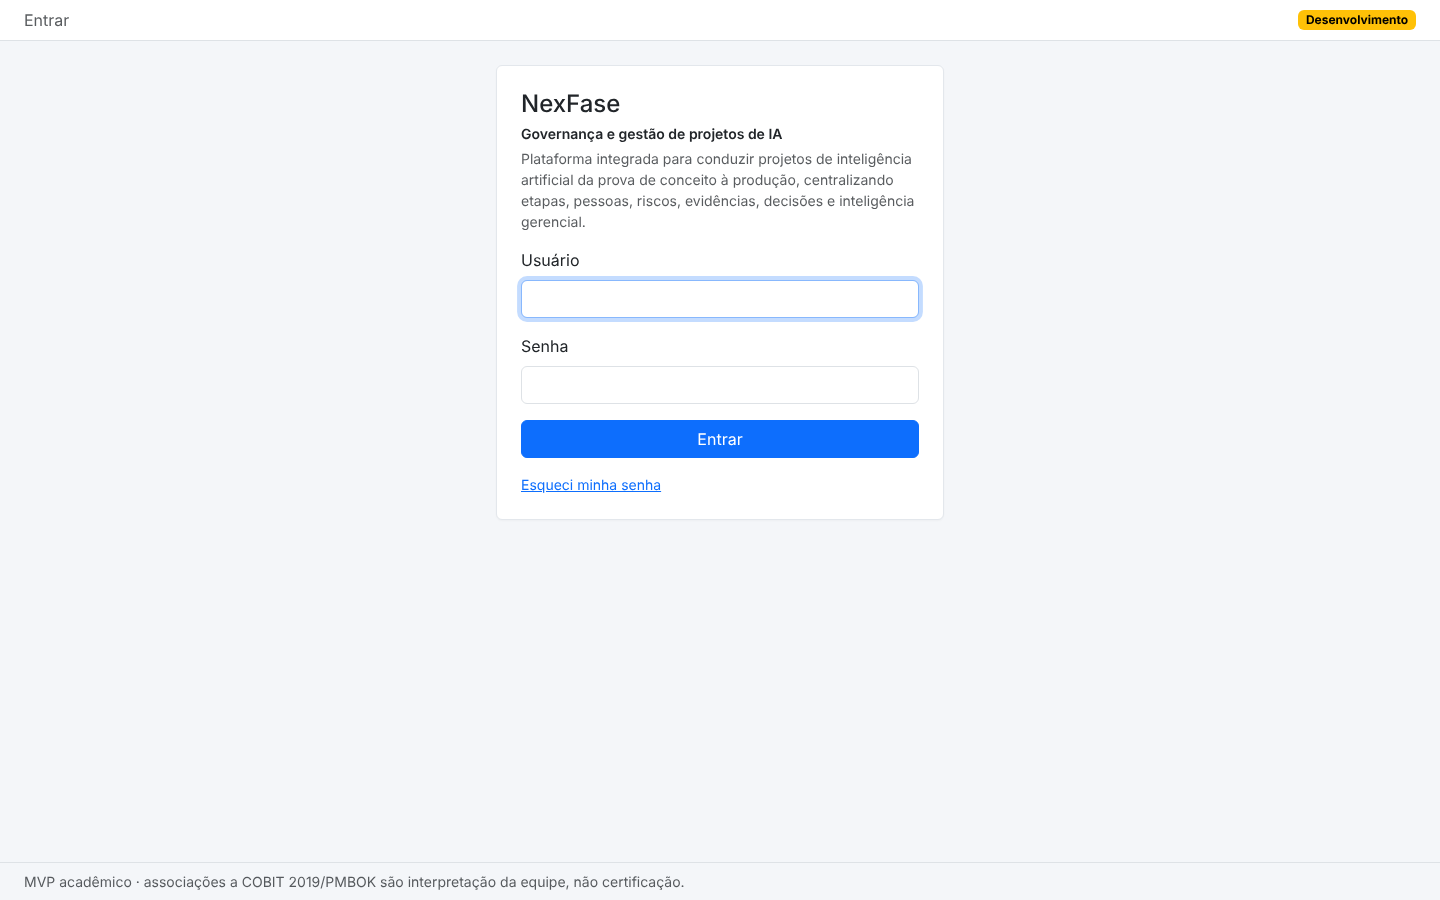
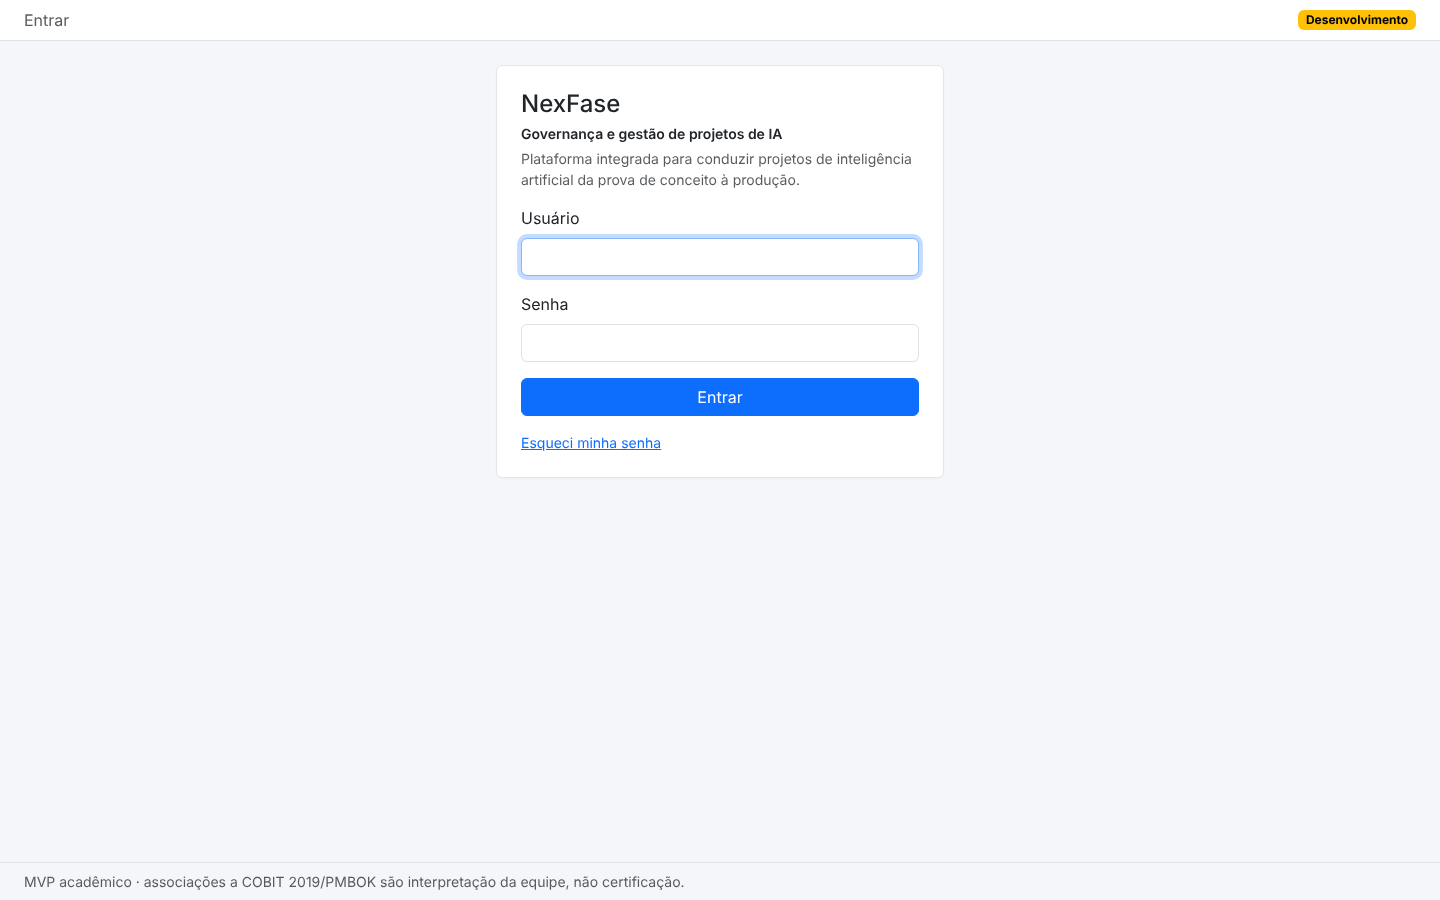
Encurta o texto explicativo da tela de login
Claude-Session: https://claude.ai/code/session_01XaWNEa8Pn7x139eG6LgV1S

Changed region(s): [[0.3438, 0.1867, 0.6562, 0.56]]

diff --git a/apps/accounts/tests/test_auth.py b/apps/accounts/tests/test_auth.py
@@ -70,7 +70,8 @@ def test_password_policy_rejects_short_password(client):
 def test_brand_identity_is_configurable(client, settings):
     body = client.get(reverse("accounts:login")).content.decode()
     assert "NexFase" in body and "Governança e gestão de projetos de IA" in body
-    assert "da prova de conceito à produção" in body
+    assert "Plataforma integrada para conduzir projetos de inteligência artificial da prova de conceito à produção." in body
+    assert "centralizando" not in body
     assert "GovIA" not in body and "TrilhaIA" not in body
     settings.APP_SHORT_NAME = "OutroNome"
     assert "OutroNome" in client.get(reverse("accounts:login")).content.decode()

diff --git a/config/settings/base.py b/config/settings/base.py
@@ -167,8 +167,7 @@ APP_SHORT_NAME = env("APP_SHORT_NAME", default="NexFase")
 APP_FULL_NAME = env("APP_FULL_NAME", default="Governança e gestão de projetos de IA")
 APP_TAGLINE = env(
     "APP_TAGLINE",
-    default="Plataforma integrada para conduzir projetos de inteligência artificial da prova de conceito à produção, "
-    "centralizando etapas, pessoas, riscos, evidências, decisões e inteligência gerencial.",
+    default="Plataforma integrada para conduzir projetos de inteligência artificial da prova de conceito à produção.",
 )
 
 # Identificação do ambiente exibida na interface (ex.: "Desenvolvimento", "Demonstração").
